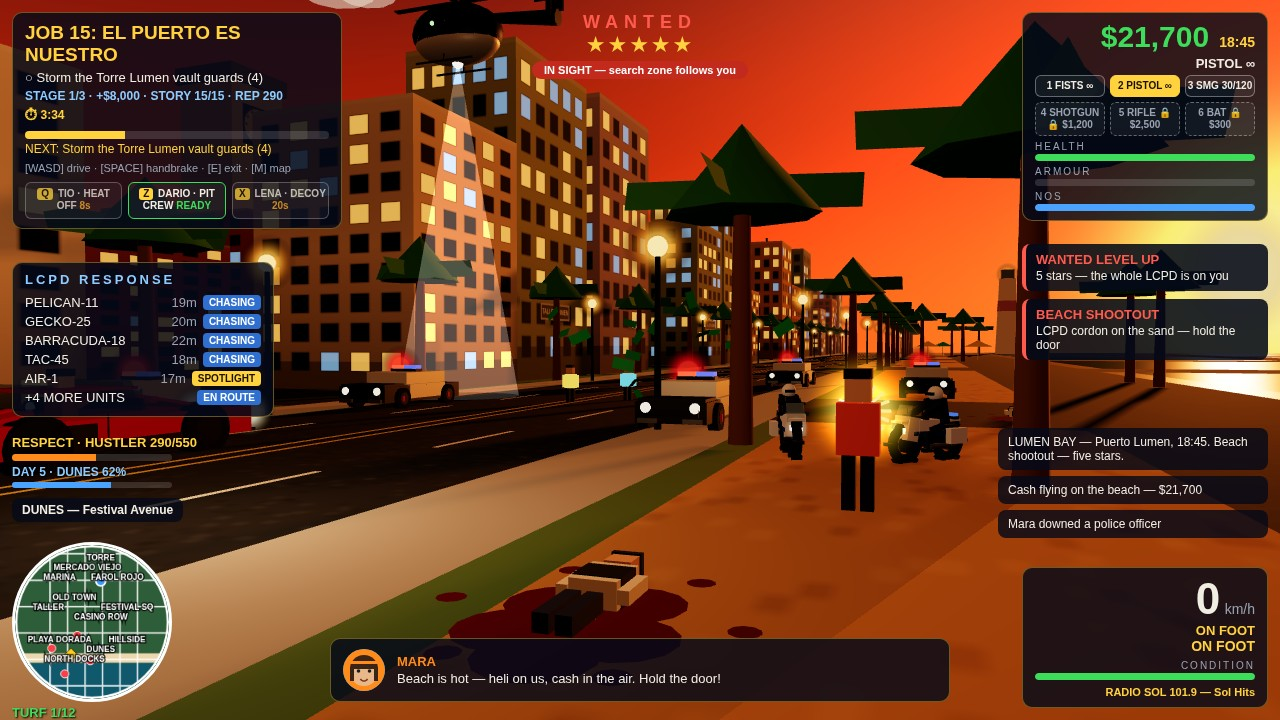
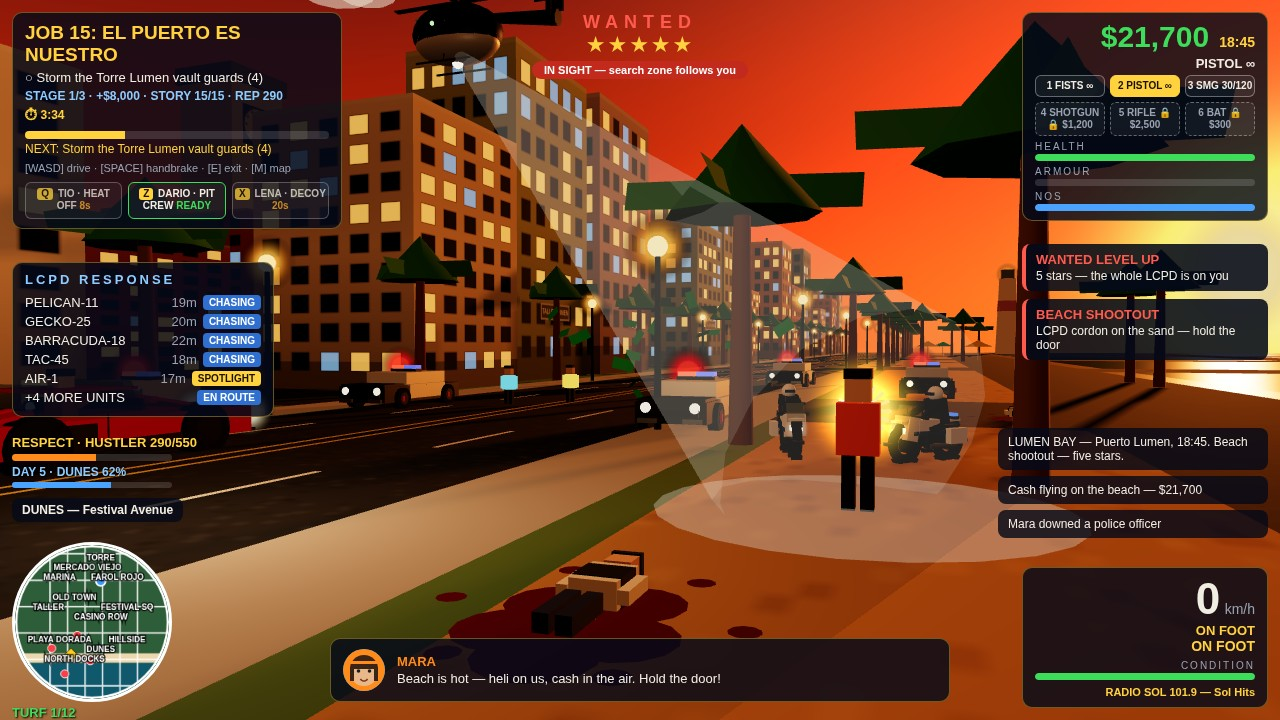
Lumen Bay R5 fix round 3: heli spotlight aims at Mara; blue-shirt pedestrian face visible
Shot 2 only. Heli beam now runs from the belly down to Mara (red shirt)
with a light pool on the sand at her feet; the old straight-down beam is
hidden. Cyan pedestrian moved from (122, 217) — lamppost pole + cash bill
covered his face — to (118, 213) on the open road, face to camera, after
two bad spots ((127, 218) hid him behind the (112, 223) cruiser; (122, 214)
put him on the yellow pedestrian's sightline). Shots 1/3/4 byte-identical.

Changed region(s): [[0.3125, 0.0611, 0.8438, 0.7944]]

diff --git a/game/src/shots.js b/game/src/shots.js
@@ -338,12 +338,33 @@ function stageShot2(game) {
   heli.rotation.y = Math.PI;
   heli.visible = true;
 
+  // R5 fix round 3: the heli spotlights Mara, the hero in the red shirt.
+  // The helicopter's own straight-down beam would land on the road, so
+  // hide it and draw the aimed beam from the belly down to Mara instead,
+  // the wide end landing on her.
+  heli.userData.beam.visible = false;
+  addBeam(game, { x: 122, y: 17, z: 208 }, { x: 100, y: 1.0, z: 229 });
+
   // Mara on foot, facing east, gun out with the muzzle flash showing.
   const mara = game.maraMesh;
   mara.position.set(100, 0, 229);
   mara.rotation.y = EAST;
   mara.visible = true;
   showMuzzleFlash(mara);
+
+  // R5 fix round 3: the spotlight's landing pool on the sand at Mara's
+  // feet, a flat pale disc so the beam visibly ends on the hero.
+  const spotPool = new THREE.Mesh(
+    new THREE.CircleGeometry(3.2, 24),
+    new THREE.MeshBasicMaterial({
+      color: 0xfff2c8, transparent: true, opacity: 0.35,
+      side: THREE.DoubleSide, depthWrite: false,
+    })
+  );
+  spotPool.rotation.x = -Math.PI / 2;
+  spotPool.position.set(100, 0.06, 229);
+  game.scene.add(spotPool);
+  game.staged.push(spotPool);
 
   // One downed officer flat in the open foreground centre, head east.
   place(game, makeDownedOfficer(), 94, 227, WEST);
@@ -354,7 +375,14 @@ function stageShot2(game) {
   // Exactly two pedestrians on the road, bright yellow and bright cyan,
   // facing the camera. No formation, no cordon anywhere.
   dressPerson(game, 0xffd21c, 120, 215, WEST, true);
-  dressPerson(game, 0x19c8e8, 122, 217, WEST, true);
+  // R5 fix round 3: the cyan pedestrian stood at (122, 217), where the
+  // lamppost pole crossed his head and a cash bill covered his face.
+  // The first move, (127, 218), hid him behind the (112, 223) cruiser,
+  // and (122, 214) put him on the yellow pedestrian's sightline, so he
+  // stands at (118, 213) instead: on the open road between the
+  // (116, 209) cruiser and the yellow pedestrian, his face showing,
+  // still facing the camera.
+  dressPerson(game, 0x19c8e8, 118, 213, WEST, true);
 
   // Police cordon closing in around Mara (r30): cruisers on the road
   // ahead of her and one close on the sand edge beside her, the far
